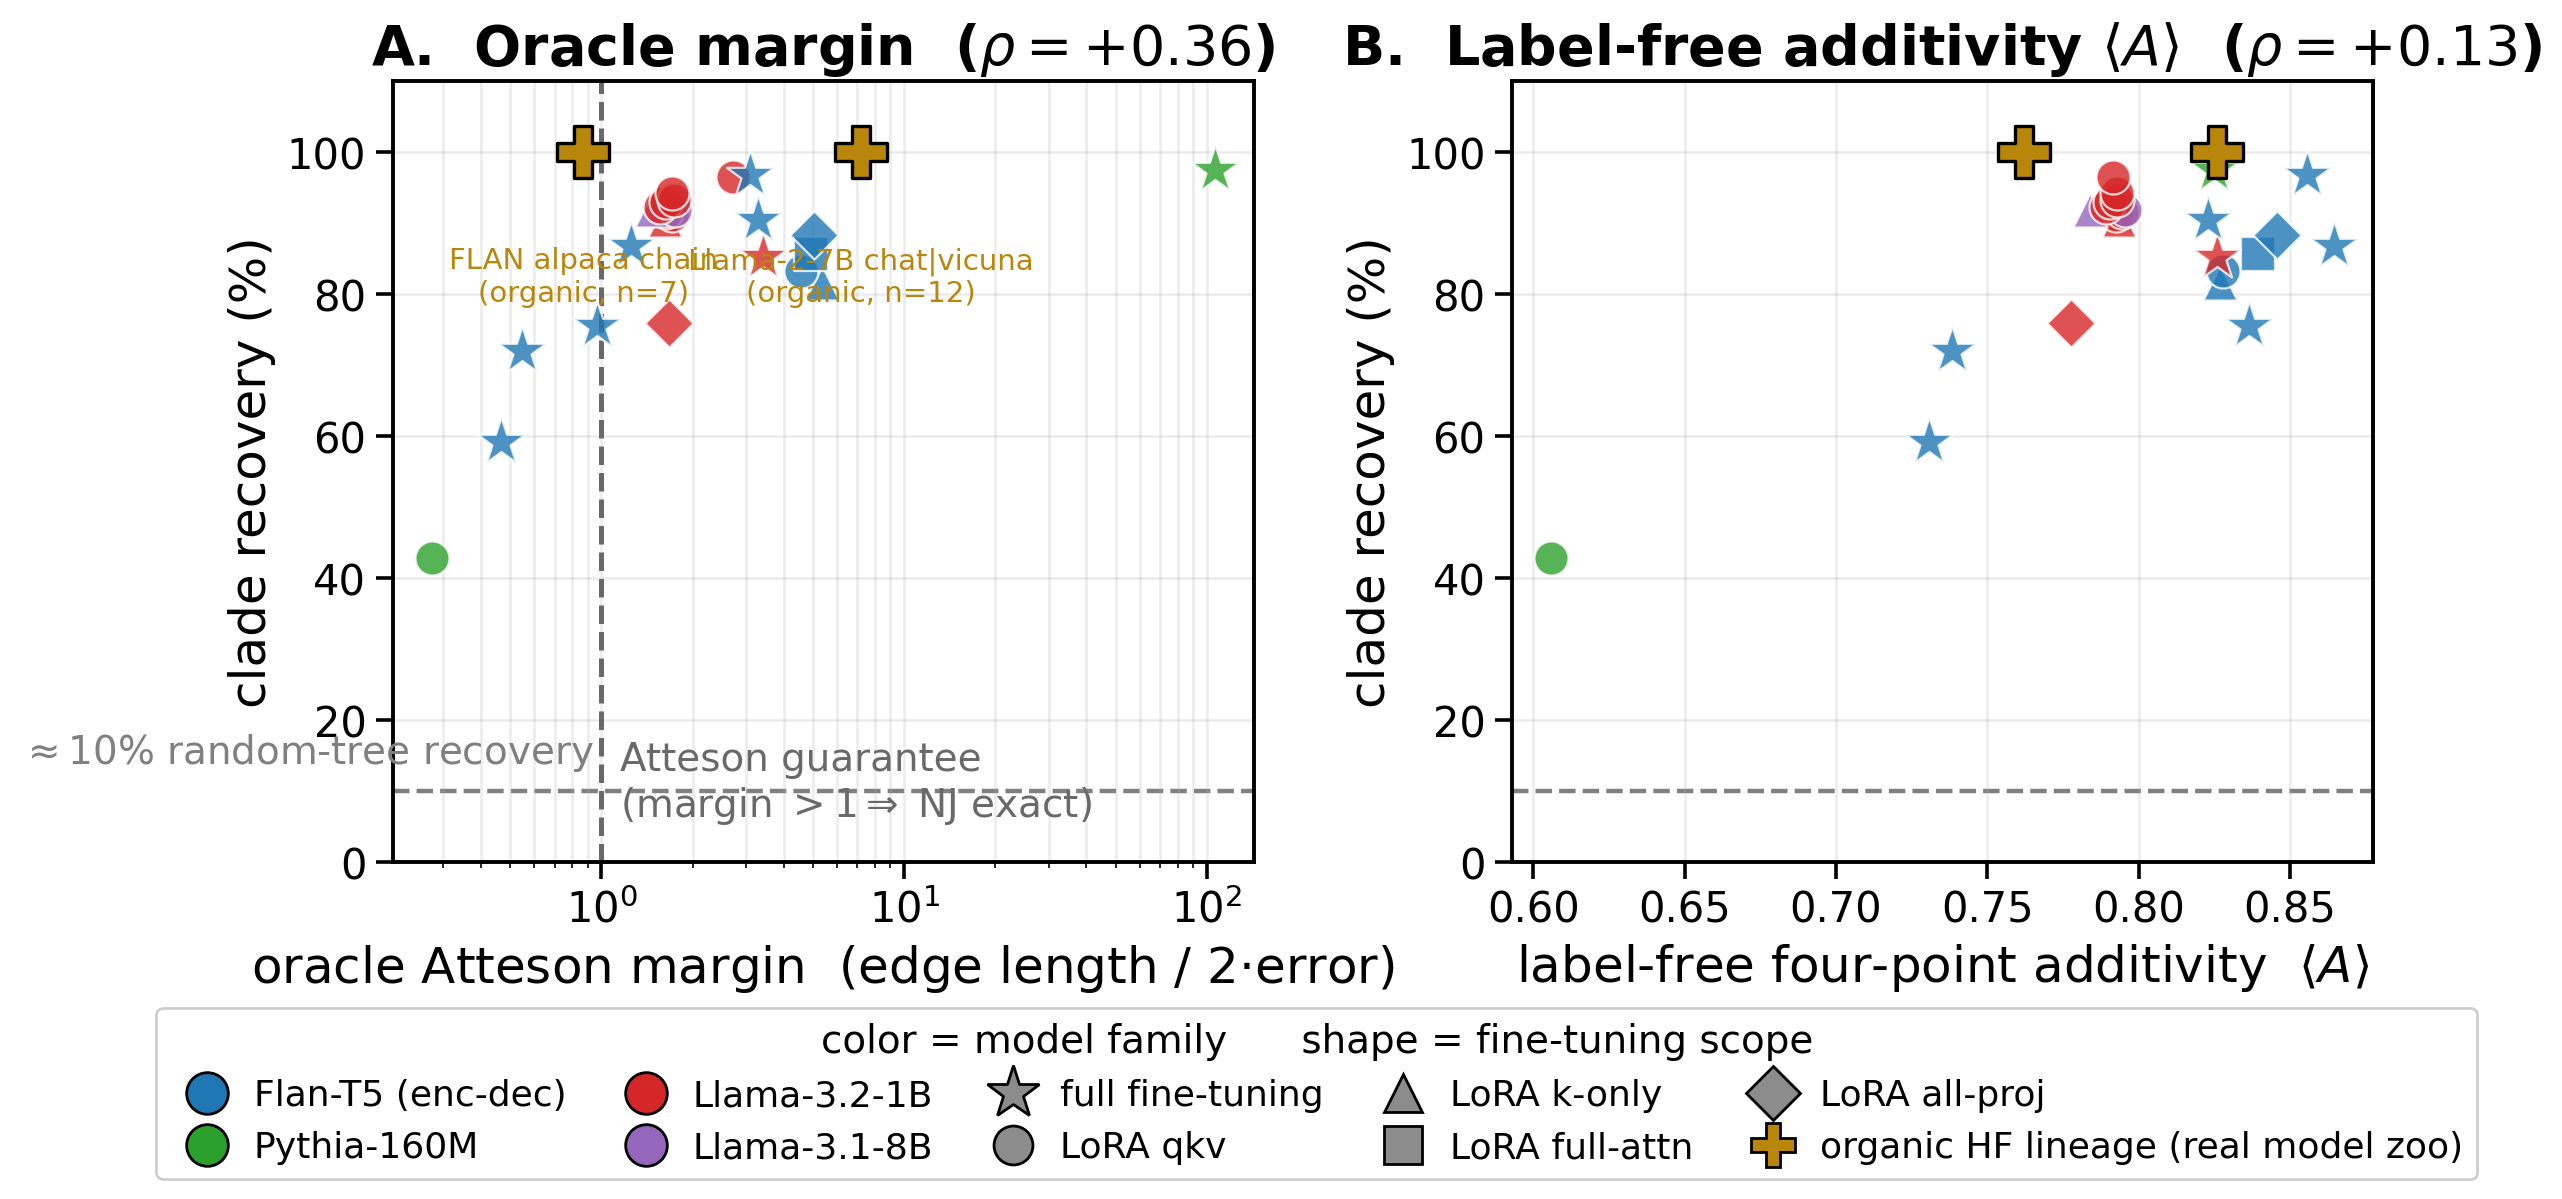
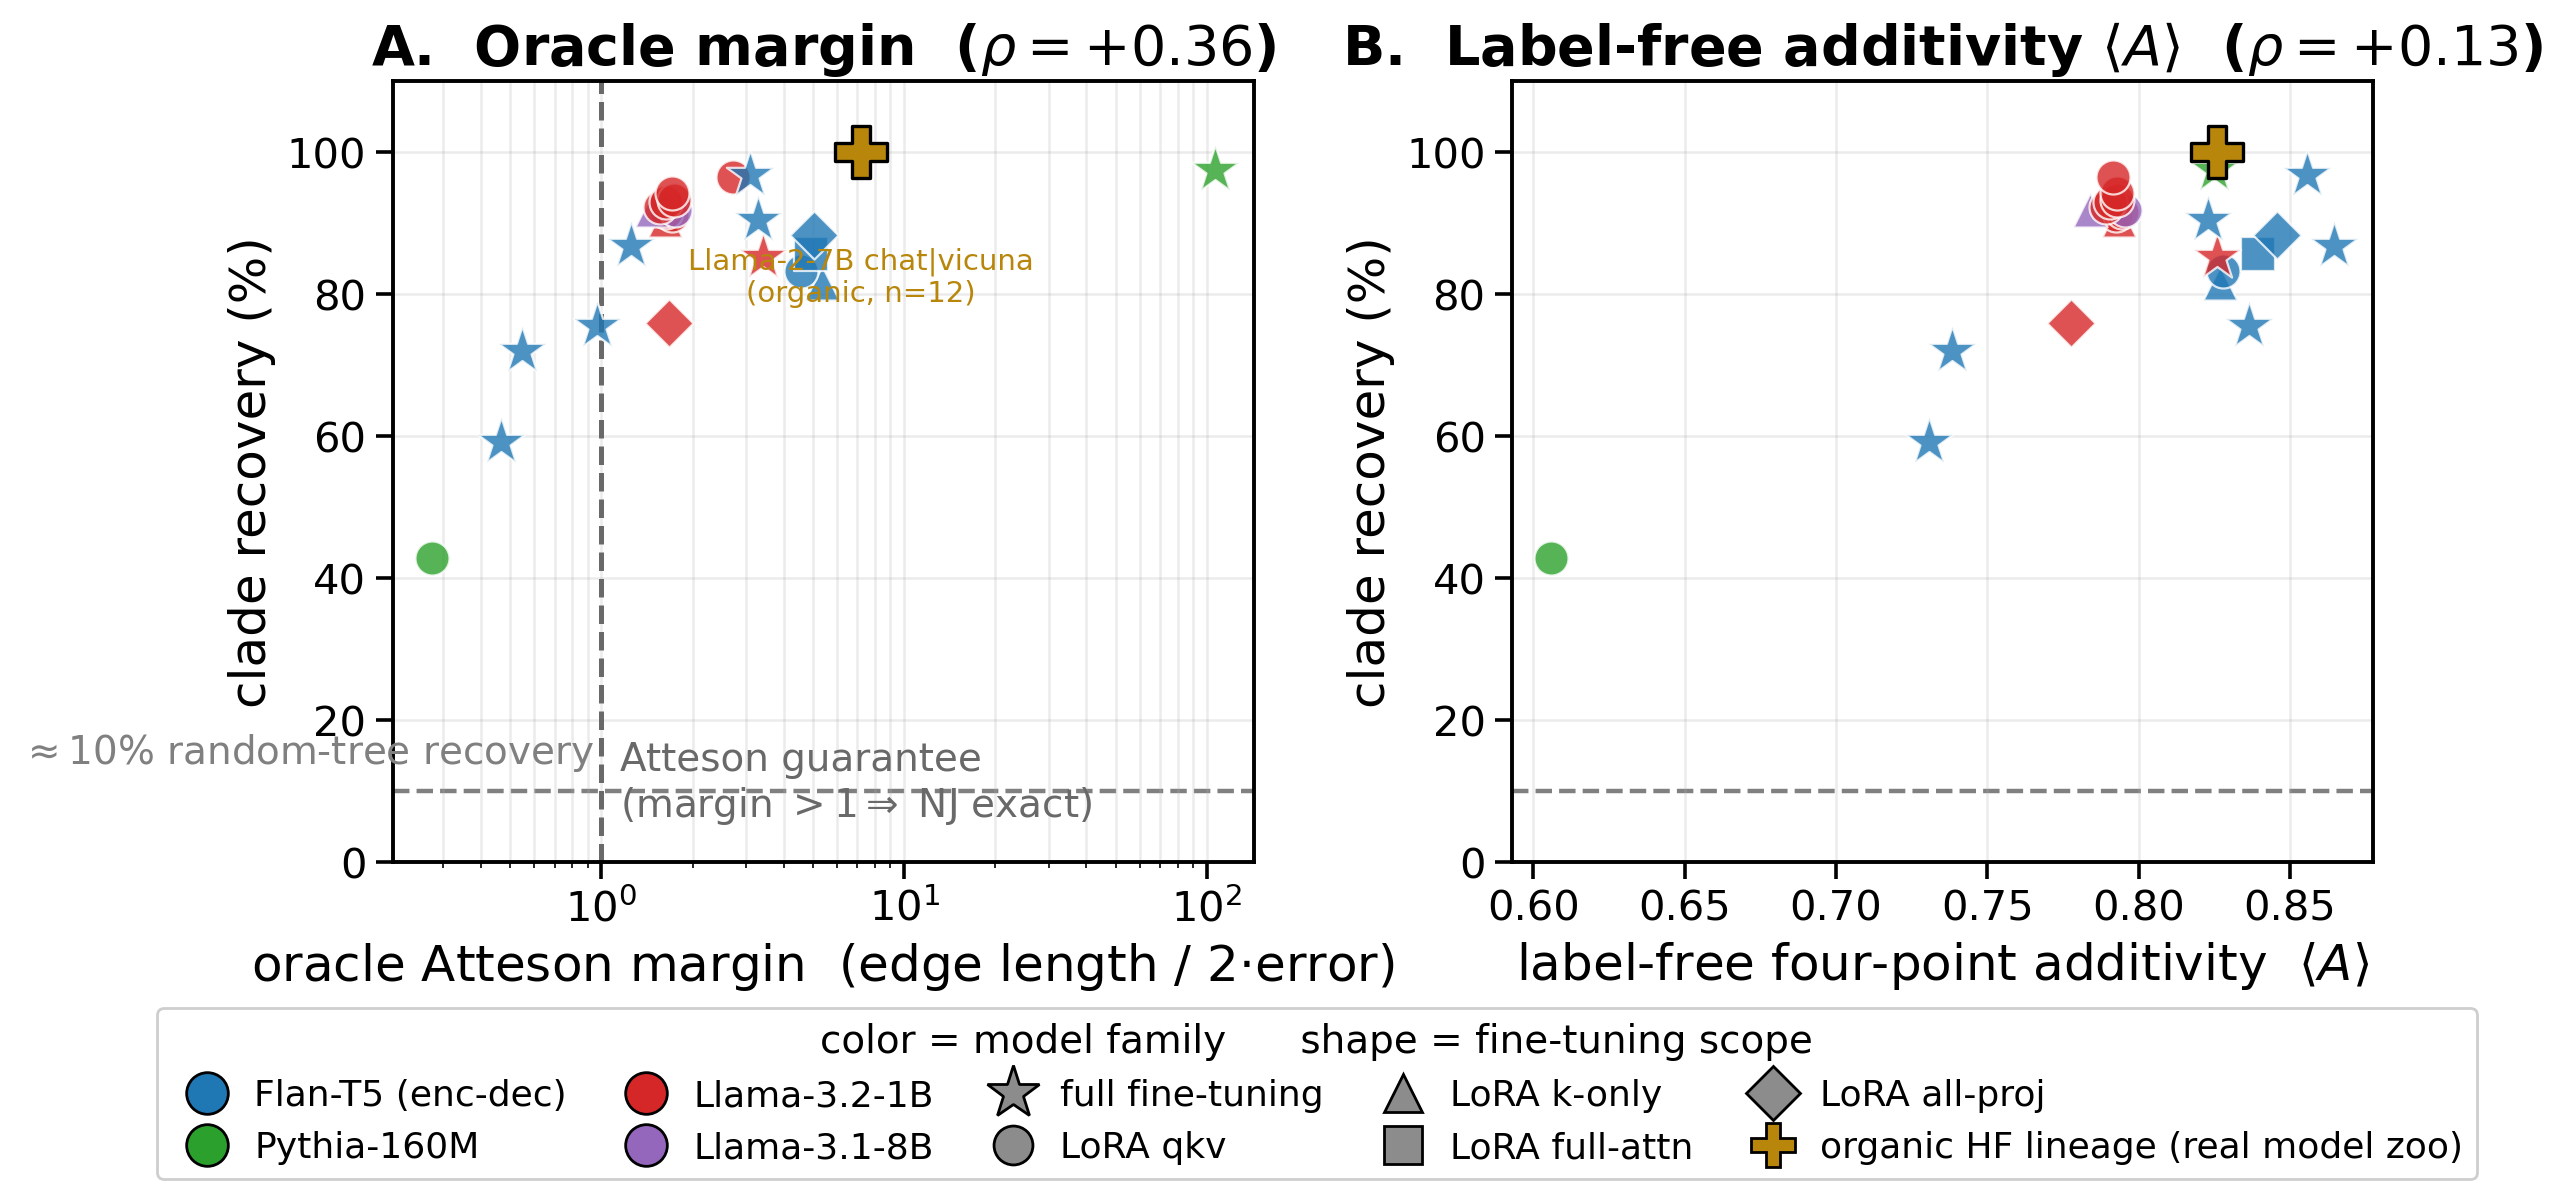
Update latest paper tables and figures

diff --git a/paper_v2.tex b/paper_v2.tex
@@ -572,7 +572,8 @@ Variant & Trained layers & Fisher-$z$ $r$ & SD & $N$ & RF & FN \\
 \quad full FT          & all & $-0.861$ & 0.182 & 37 & 1.55 & 0.06 \\
 \midrule
 \multicolumn{7}{l}{\textbf{Decoder-only: Llama-3.2-1B} ($d=2048$)} \\
-\quad qkv (r8)         &  48 & $-0.164$ & 0.255 & 36 & 3.89 & 1.27 \\
+\quad qkv (r8)         &  48 & $-0.943$ & 0.131 & 37 & 1.68 & 0.13 \\
+\quad qkv (r64)        &  48 & $-0.960$ & 0.114 & 37 & 1.60 & 0.09 \\
 \quad full FT          & all & $-0.690$ & 0.327 & 35 & 1.86 & 0.25 \\
 \midrule
 \multicolumn{7}{l}{\textit{LayerTrace variants (Flan-T5 full FT, 6-leaf runs); FN $=$ true clades missed}} \\
@@ -959,9 +960,9 @@ lora\_full\_attn       & $-32.0$  & $-0.027$  & $-0.12$ & $0.008$ \\
 lora\_full\_ft\_approx & $-52.2$  & $-0.031$  & $-0.14$ & $0.007$ \\
 Tree sample (full FT)  & $-7.40$  & $-0.019$  & $-0.13$ & $0.002$ \\
 \midrule
-\multicolumn{5}{l}{\textit{Llama-3.1-8B (decoder-only)}} \\
-k\_only (translation)  & $-0.020$ & $-0.0032$ & $-0.21$ & $2\!\times\!10^{-9}$ \\
-k\_only (HellaSwag)    & $-0.048$ & $-0.0046$ & $-0.10$ & $0.002$ \\
+\multicolumn{5}{l}{\textit{Llama-3.1-8B (decoder-only; cumulative weight distance)}} \\
+k\_only (translation, seen)   & $+0.0002$ & $-0.0001$ & $-0.01$ & $0.76$ \\
+k\_only (HellaSwag, held-out) & $-0.012$  & $-0.0028$ & $-0.16$ & $0.003$ \\
 \bottomrule
 \end{tabular}
 \end{center}
